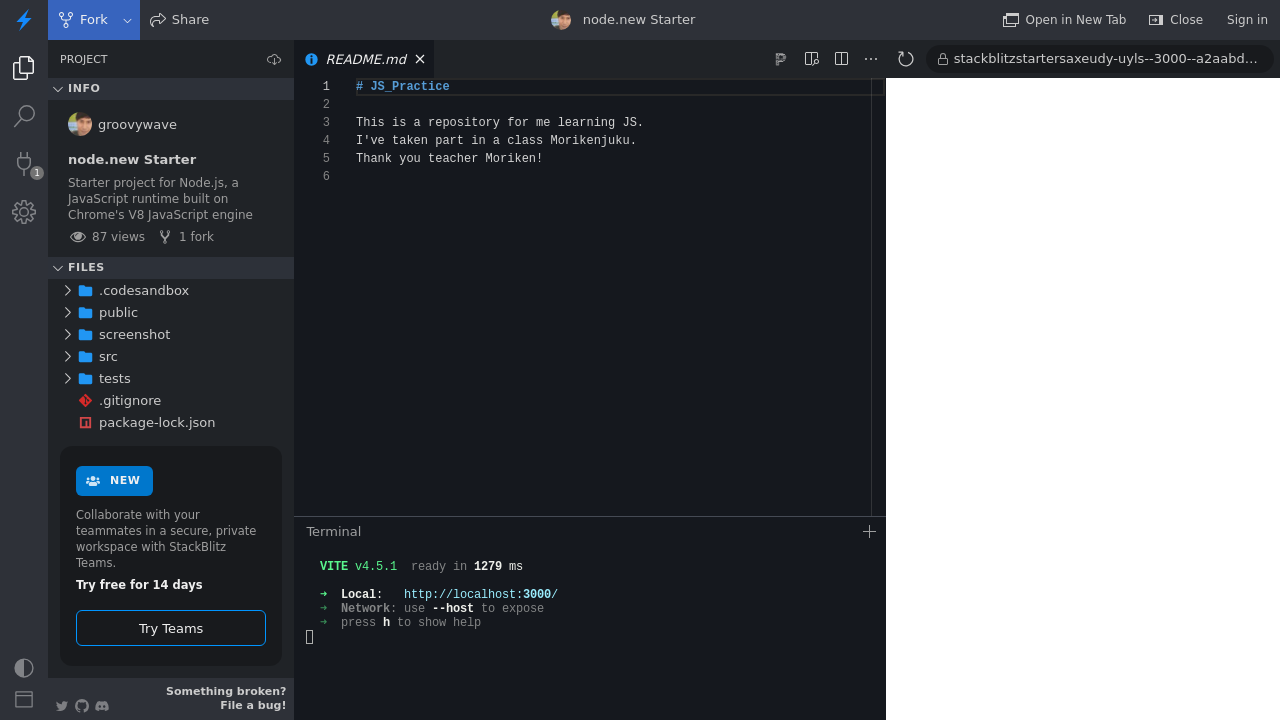
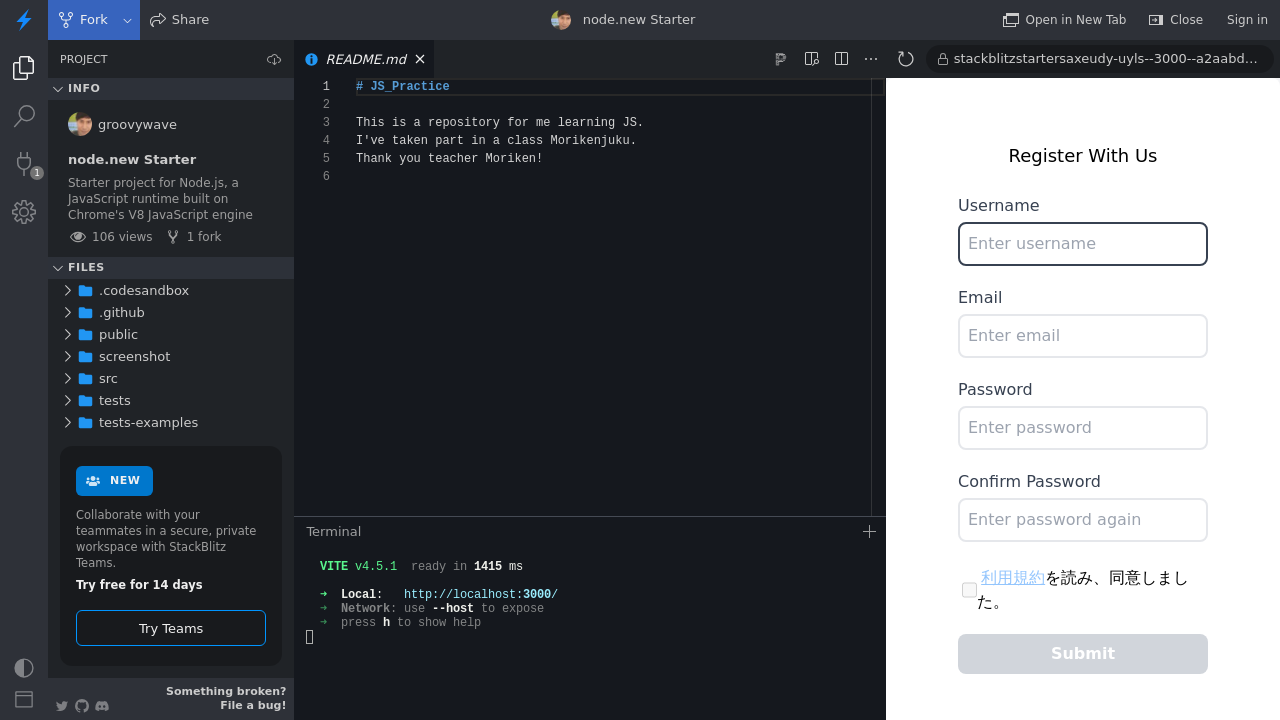
feat:rewright tests

diff --git a/tests/JS_lesson.spec.js b/tests/JS_lesson.spec.js
@@ -18,6 +18,22 @@ test("test", async ({ page }) => {
     .click();
   await page
     .frameLocator('iframe[title="Preview page"]')
+    .getByPlaceholder("Enter username")
+    .press("Tab");
+  await page
+    .frameLocator('iframe[title="Preview page"]')
+    .getByPlaceholder("Enter email")
+    .press("Tab");
+  await page
+    .frameLocator('iframe[title="Preview page"]')
+    .getByPlaceholder("Enter password", { exact: true })
+    .press("Tab");
+  await page
+    .frameLocator('iframe[title="Preview page"]')
+    .getByPlaceholder("Enter password again")
+    .press("Tab");
+  await page
+    .frameLocator('iframe[title="Preview page"]')
     .getByRole("link", { name: "利用規約" })
     .press("Enter");
   await takeScreenshot("click 利用規約");
